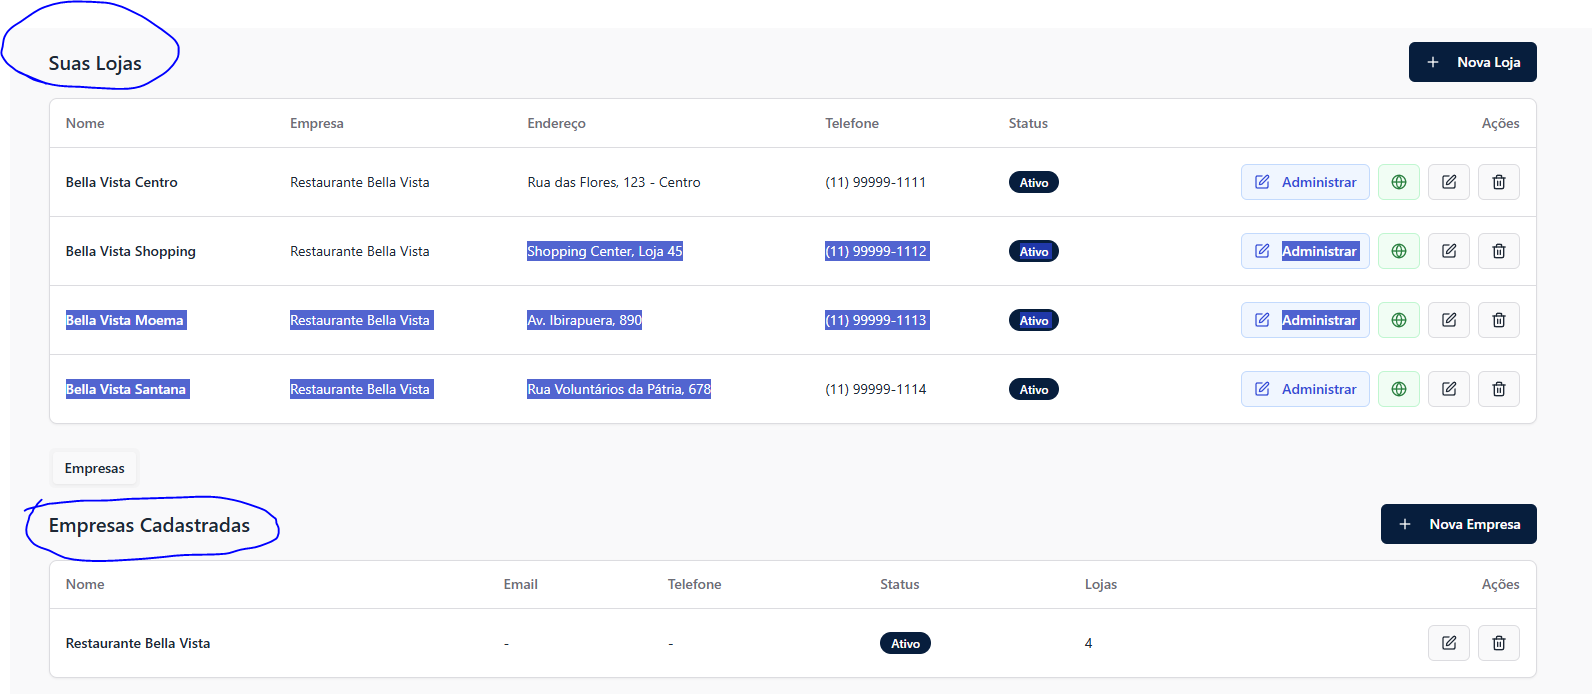
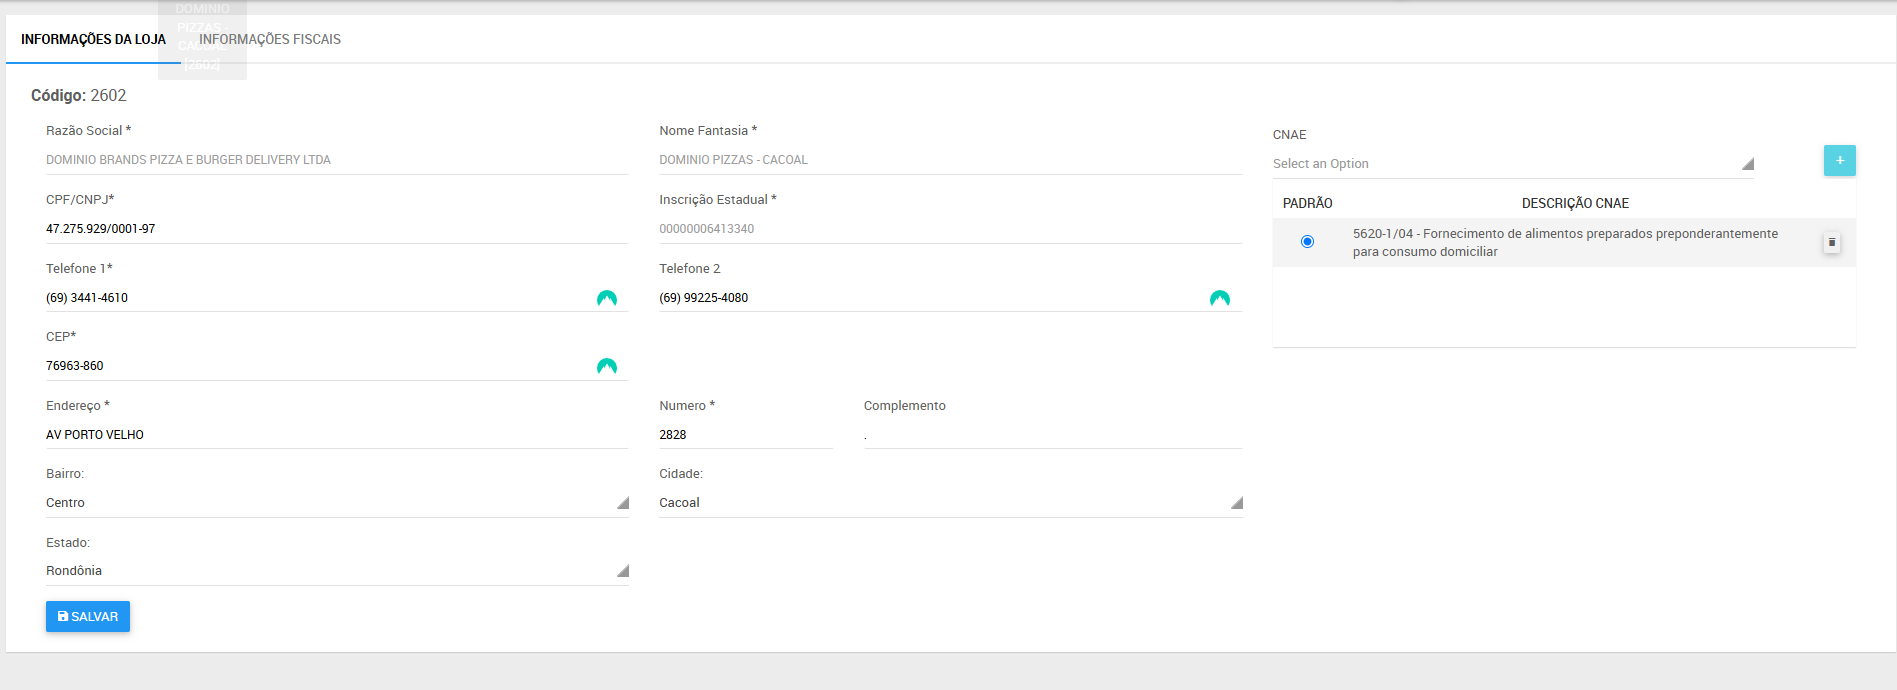
Enable store managers to update key information and settings
Adds a form with store details such as name, address, phone to StoreDashboard.tsx.

Replit-Commit-Author: Agent
Replit-Commit-Session-Id: 33c34bdb-1e46-4ade-8590-488040286e63
Replit-Commit-Screenshot-Url: https://storage.googleapis.com/screenshot-production-us-central1/939efffc-e960-460b-9652-a195263879a5/ecc41417-0c31-461f-b7b0-c73bc9b469d9.jpg

diff --git a/client/src/pages/StoreDashboard.tsx b/client/src/pages/StoreDashboard.tsx
@@ -396,59 +396,214 @@ export default function StoreDashboard() {
 
           {/* Settings Tab */}
           <TabsContent value="settings" className="space-y-6">
-            <h2 className="text-xl font-semibold">Configurações da Loja</h2>
+            <div className="flex items-center justify-between">
+              <h2 className="text-xl font-semibold">Informações da Loja</h2>
+              <Button>
+                <Settings className="h-4 w-4 mr-2" />
+                Salvar Todas as Alterações
+              </Button>
+            </div>
             
             <div className="grid grid-cols-1 lg:grid-cols-2 gap-6">
+              {/* Informações da Loja */}
               <Card>
                 <CardHeader>
-                  <CardTitle>Informações Básicas</CardTitle>
+                  <CardTitle className="text-blue-600">Informações da Loja</CardTitle>
                 </CardHeader>
                 <CardContent className="space-y-4">
                   <div className="grid gap-2">
-                    <Label htmlFor="store-name">Nome da Loja</Label>
-                    <Input id="store-name" defaultValue={store.name} />
+                    <Label htmlFor="codigo">Código</Label>
+                    <Input id="codigo" defaultValue="2502" disabled className="bg-gray-50" />
                   </div>
                   <div className="grid gap-2">
-                    <Label htmlFor="store-address">Endereço</Label>
-                    <Textarea id="store-address" defaultValue={store.address} />
+                    <Label htmlFor="razao-social">Razão Social *</Label>
+                    <Input id="razao-social" defaultValue="DOMINIO PIZZAS E BURGERS GOURMET LTDA" />
                   </div>
                   <div className="grid gap-2">
-                    <Label htmlFor="store-phone">Telefone</Label>
-                    <Input id="store-phone" defaultValue={store.phone} />
+                    <Label htmlFor="cnpj">CNPJ/CPF *</Label>
+                    <Input id="cnpj" defaultValue="47.375.928/0001-87" />
                   </div>
                   <div className="grid gap-2">
-                    <Label htmlFor="store-email">Email</Label>
-                    <Input id="store-email" type="email" defaultValue={store.email} />
+                    <Label htmlFor="telefone1">Telefone 1 *</Label>
+                    <Input id="telefone1" defaultValue="(95) 3441-4810" />
                   </div>
-                  <Button>Salvar Alterações</Button>
+                  <div className="grid gap-2">
+                    <Label htmlFor="cep">CEP *</Label>
+                    <Input id="cep" defaultValue="70051-900" />
+                  </div>
+                  <div className="grid gap-2">
+                    <Label htmlFor="endereco">Endereço *</Label>
+                    <Input id="endereco" defaultValue="AV PORTO VELHO" />
+                  </div>
+                  <div className="grid gap-2">
+                    <Label htmlFor="bairro">Bairro</Label>
+                    <Input id="bairro" defaultValue="Centro" />
+                  </div>
+                  <div className="grid gap-2">
+                    <Label htmlFor="estado">Estado</Label>
+                    <Select defaultValue="DF">
+                      <SelectTrigger>
+                        <SelectValue />
+                      </SelectTrigger>
+                      <SelectContent>
+                        <SelectItem value="AC">AC</SelectItem>
+                        <SelectItem value="AL">AL</SelectItem>
+                        <SelectItem value="AP">AP</SelectItem>
+                        <SelectItem value="AM">AM</SelectItem>
+                        <SelectItem value="BA">BA</SelectItem>
+                        <SelectItem value="CE">CE</SelectItem>
+                        <SelectItem value="DF">DF</SelectItem>
+                        <SelectItem value="ES">ES</SelectItem>
+                        <SelectItem value="GO">GO</SelectItem>
+                        <SelectItem value="MA">MA</SelectItem>
+                        <SelectItem value="MT">MT</SelectItem>
+                        <SelectItem value="MS">MS</SelectItem>
+                        <SelectItem value="MG">MG</SelectItem>
+                        <SelectItem value="PA">PA</SelectItem>
+                        <SelectItem value="PB">PB</SelectItem>
+                        <SelectItem value="PR">PR</SelectItem>
+                        <SelectItem value="PE">PE</SelectItem>
+                        <SelectItem value="PI">PI</SelectItem>
+                        <SelectItem value="RJ">RJ</SelectItem>
+                        <SelectItem value="RN">RN</SelectItem>
+                        <SelectItem value="RS">RS</SelectItem>
+                        <SelectItem value="RO">RO</SelectItem>
+                        <SelectItem value="RR">RR</SelectItem>
+                        <SelectItem value="SC">SC</SelectItem>
+                        <SelectItem value="SP">SP</SelectItem>
+                        <SelectItem value="SE">SE</SelectItem>
+                        <SelectItem value="TO">TO</SelectItem>
+                      </SelectContent>
+                    </Select>
+                  </div>
+                  <div className="grid gap-2">
+                    <Label htmlFor="pais">País</Label>
+                    <Input id="pais" defaultValue="Brasil" />
+                  </div>
                 </CardContent>
               </Card>
 
+              {/* Informações Fiscais */}
               <Card>
                 <CardHeader>
-                  <CardTitle>Configurações do Cardápio</CardTitle>
+                  <CardTitle className="text-green-600">Informações Fiscais</CardTitle>
                 </CardHeader>
                 <CardContent className="space-y-4">
-                  <div className="flex items-center justify-between">
-                    <Label htmlFor="online-orders">Pedidos Online</Label>
-                    <input type="checkbox" id="online-orders" defaultChecked />
-                  </div>
-                  <div className="flex items-center justify-between">
-                    <Label htmlFor="show-prices">Mostrar Preços</Label>
-                    <input type="checkbox" id="show-prices" defaultChecked />
+                  <div className="grid gap-2">
+                    <Label htmlFor="nome-fantasia">Nome Fantasia *</Label>
+                    <Input id="nome-fantasia" defaultValue="DOMINIO PIZZAS - LACUBA" />
                   </div>
                   <div className="grid gap-2">
-                    <Label htmlFor="delivery-fee">Taxa de Entrega</Label>
-                    <Input id="delivery-fee" placeholder="0,00" />
+                    <Label htmlFor="inscricao-estadual">Inscrição Estadual *</Label>
+                    <Input id="inscricao-estadual" defaultValue="0000000013430" />
                   </div>
                   <div className="grid gap-2">
-                    <Label htmlFor="min-order">Pedido Mínimo</Label>
-                    <Input id="min-order" placeholder="0,00" />
+                    <Label htmlFor="telefone2">Telefone 2</Label>
+                    <Input id="telefone2" defaultValue="(95) 99232-4060" />
                   </div>
-                  <Button>Salvar Configurações</Button>
+                  <div className="grid gap-2">
+                    <Label htmlFor="numero">Número *</Label>
+                    <Input id="numero" defaultValue="2638" />
+                  </div>
+                  <div className="grid gap-2">
+                    <Label htmlFor="complemento">Complemento</Label>
+                    <Input id="complemento" />
+                  </div>
+                  <div className="grid gap-2">
+                    <Label htmlFor="cidade">Cidade</Label>
+                    <Input id="cidade" defaultValue="Caracaí" />
+                  </div>
+                  <div className="grid gap-2">
+                    <Label htmlFor="cnae">CNAE</Label>
+                    <Select defaultValue="56201">
+                      <SelectTrigger>
+                        <SelectValue placeholder="Selecione a atividade" />
+                      </SelectTrigger>
+                      <SelectContent>
+                        <SelectItem value="56201">56201 - Restaurantes e estabelecimentos de bebidas, com serviço completo</SelectItem>
+                        <SelectItem value="56202">56202 - Lanchonetes, casas de chá, de sucos e similares</SelectItem>
+                        <SelectItem value="56203">56203 - Bares e outros estabelecimentos especializados em servir bebidas</SelectItem>
+                      </SelectContent>
+                    </Select>
+                  </div>
+                  <div className="grid gap-2">
+                    <Label htmlFor="padrao">Padrão</Label>
+                    <Select defaultValue="medio">
+                      <SelectTrigger>
+                        <SelectValue />
+                      </SelectTrigger>
+                      <SelectContent>
+                        <SelectItem value="simples">Simples</SelectItem>
+                        <SelectItem value="medio">Médio</SelectItem>
+                        <SelectItem value="alto">Alto</SelectItem>
+                        <SelectItem value="luxo">Luxo</SelectItem>
+                      </SelectContent>
+                    </Select>
+                  </div>
+                  <div className="grid gap-2">
+                    <Label htmlFor="descricao-cnae">Descrição CNAE</Label>
+                    <Textarea 
+                      id="descricao-cnae" 
+                      defaultValue="56201-1/04 - Fornecimento de alimentos preparados preponderantemente para consumo domiciliar"
+                      rows={3}
+                    />
+                  </div>
                 </CardContent>
               </Card>
             </div>
+
+            {/* Configurações do Sistema */}
+            <Card>
+              <CardHeader>
+                <CardTitle className="text-purple-600">Configurações do Cardápio Digital</CardTitle>
+              </CardHeader>
+              <CardContent>
+                <div className="grid grid-cols-1 md:grid-cols-3 gap-6">
+                  <div className="space-y-4">
+                    <div className="flex items-center justify-between">
+                      <Label htmlFor="online-orders">Pedidos Online</Label>
+                      <input type="checkbox" id="online-orders" defaultChecked className="w-4 h-4" />
+                    </div>
+                    <div className="flex items-center justify-between">
+                      <Label htmlFor="show-prices">Mostrar Preços</Label>
+                      <input type="checkbox" id="show-prices" defaultChecked className="w-4 h-4" />
+                    </div>
+                    <div className="flex items-center justify-between">
+                      <Label htmlFor="delivery-available">Entrega Disponível</Label>
+                      <input type="checkbox" id="delivery-available" defaultChecked className="w-4 h-4" />
+                    </div>
+                  </div>
+                  <div className="space-y-4">
+                    <div className="grid gap-2">
+                      <Label htmlFor="delivery-fee">Taxa de Entrega (R$)</Label>
+                      <Input id="delivery-fee" placeholder="5,00" />
+                    </div>
+                    <div className="grid gap-2">
+                      <Label htmlFor="min-order">Pedido Mínimo (R$)</Label>
+                      <Input id="min-order" placeholder="25,00" />
+                    </div>
+                    <div className="grid gap-2">
+                      <Label htmlFor="delivery-time">Tempo de Entrega (min)</Label>
+                      <Input id="delivery-time" placeholder="30-45" />
+                    </div>
+                  </div>
+                  <div className="space-y-4">
+                    <div className="grid gap-2">
+                      <Label htmlFor="opening-hours">Horário de Funcionamento</Label>
+                      <Input id="opening-hours" placeholder="18:00 - 23:00" />
+                    </div>
+                    <div className="grid gap-2">
+                      <Label htmlFor="whatsapp">WhatsApp para Pedidos</Label>
+                      <Input id="whatsapp" placeholder="(95) 99999-9999" />
+                    </div>
+                    <div className="grid gap-2">
+                      <Label htmlFor="instagram">Instagram</Label>
+                      <Input id="instagram" placeholder="@bellavista.centro" />
+                    </div>
+                  </div>
+                </div>
+              </CardContent>
+            </Card>
           </TabsContent>
 
           {/* Analytics Tab */}
